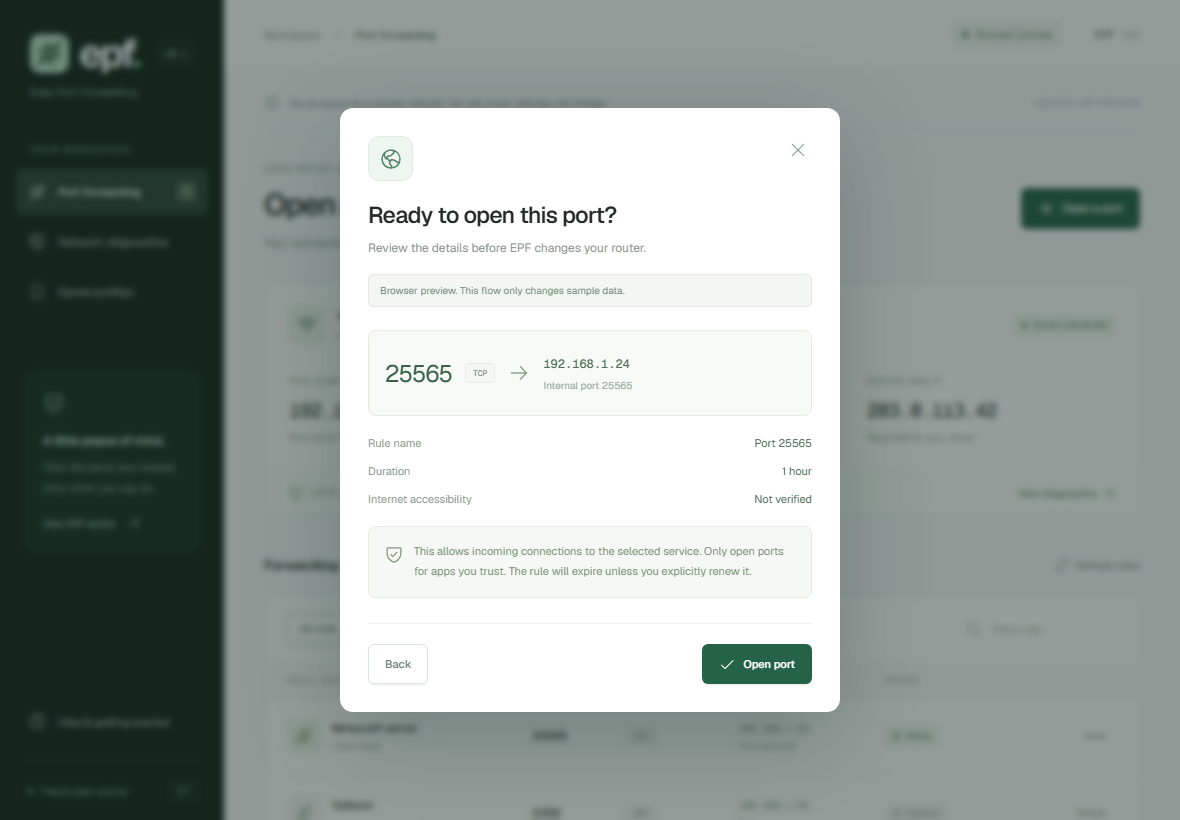
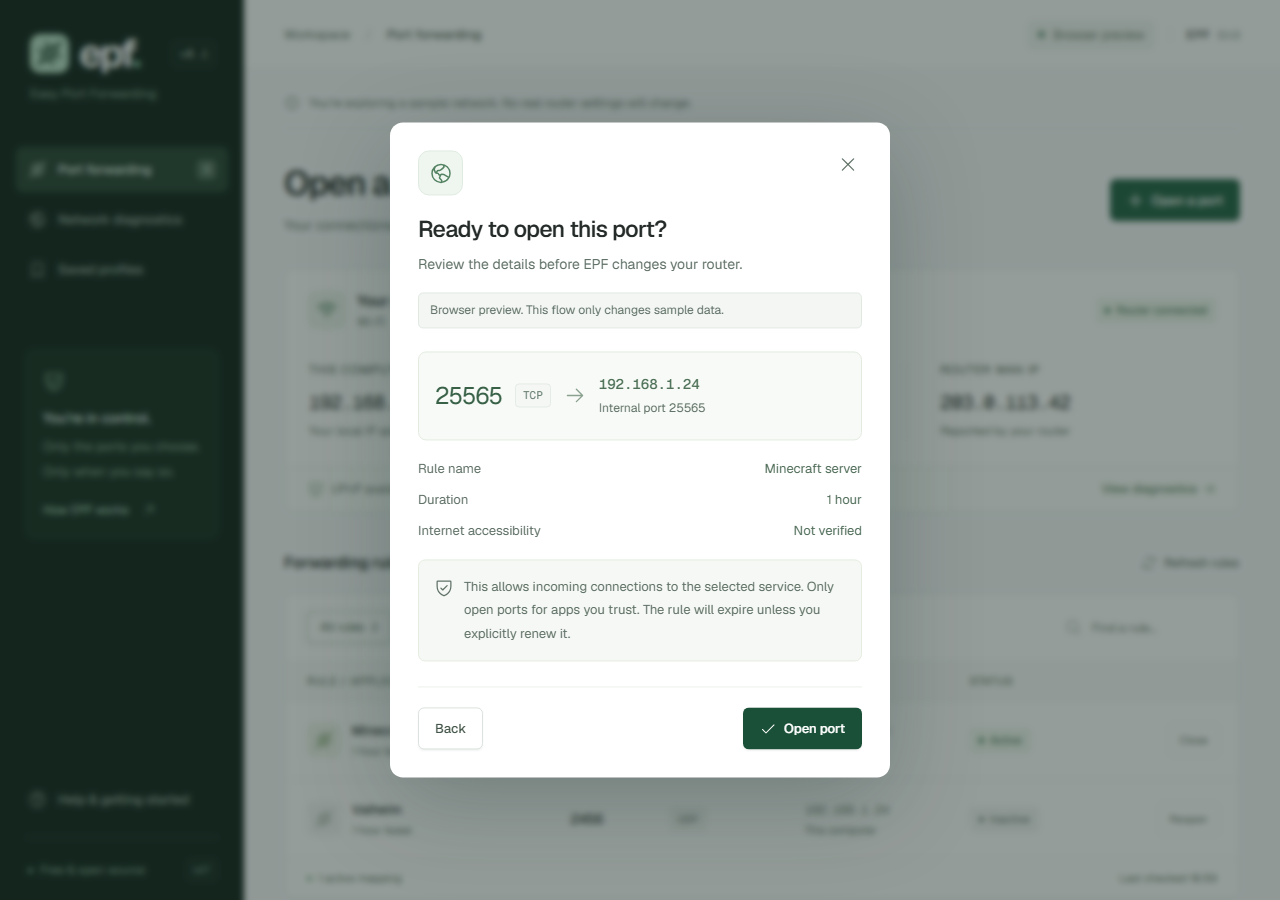
docs: refresh polished UI previews and record build verification

diff --git a/docs/verification.md b/docs/verification.md
@@ -7,7 +7,7 @@ Checked on 2026-11-05 in Windows x64 with Node.js 24.18.0 and Rust 1.99.1.
 | Core Rust tests                                          | 12 passed                                        |
 | CLI executable integration tests                         | 3 passed                                         |
 | Frontend validation tests                                | 3 passed                                         |
-| Playwright browser flows                                 | 5 passed                                         |
+| Playwright browser flows                                 | 6 passed                                         |
 | TypeScript, ESLint, version consistency                  | Passed                                           |
 | Rust formatting and core/CLI Clippy with warnings denied | Passed                                           |
 | Production frontend bundle                               | Built                                            |
@@ -41,3 +41,13 @@ node scripts/smoke-native.mjs
 ```
 
 The script reads network state and tests a rejected, unconfirmed request. It never approves a router mutation or enables public IP lookup. Stop the test app after checking it; remote debugging is not part of normal EPF startup.
+
+## Interface polish checks
+
+The polished interface was visually checked at 1280 × 900 and 390 × 844, including the confirmation dialog and help page. Larger labels and darker secondary text replace the original small, pale text. Page transitions use scoped GSAP contexts and clean up when navigation changes. Reduced-motion settings disable both page transitions and help-page scroll effects.
+
+The sixth browser test checks that the pinned help panel stays above the terminal section, reduced-motion content remains fully visible, and navigating away removes the pin wrapper. Existing confirmation, profile, diagnostics, unsupported-router, and narrow-layout flows also pass.
+
+The Windows executable and NSIS installer were rebuilt after this polish. Repeating the native smoke-check launch was blocked by the execution approval policy, so the native runtime results above describe the earlier MVP build. The polished build has production compilation and browser-flow verification, but has not been runtime-verified through native IPC again.
+
+To refresh the README screenshots, start `npm run dev` and run `node scripts/capture-preview.mjs`. This uses only the labeled browser preview and stops at confirmation without opening a port. Additional narrow-layout and help screenshots are saved in the ignored `artifacts/` directory.
